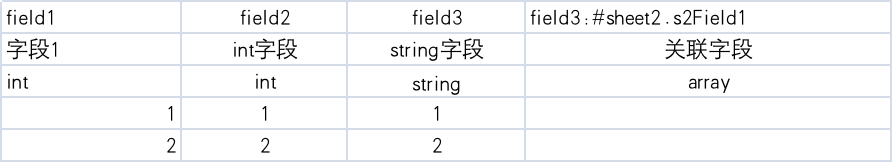
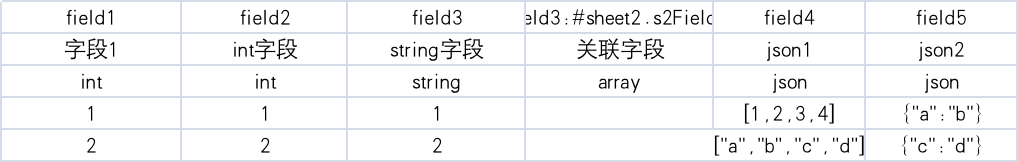
增加json字段支持

diff --git a/lib/book/book.go b/lib/book/book.go
@@ -2,6 +2,7 @@ package book
 
 import (
 	Config "awesomeProject/lib/config"
+	"encoding/json"
 	"fmt"
 	"github.com/iancoleman/orderedmap"
 	"github.com/tealeg/xlsx"
@@ -61,6 +62,26 @@ func createDataMap(data *PageData) *orderedmap.OrderedMap {
 				bodyMap.Set(head.enName, createDataMap(body.data.(*PageData)))
 			case "int", "string", "float":
 				bodyMap.Set(head.enName, body.data)
+			case "json":
+				if len(body.data.(string)) == 0 {
+					body.data = "{}"
+				}
+
+				if body.data.(string)[0] == '[' && body.data.(string)[len(body.data.(string))-1] == ']' {
+					var jsonArray []interface{}
+					err := json.Unmarshal([]byte(body.data.(string)), &jsonArray)
+					if err != nil {
+						panic(fmt.Sprintf("json解析失败,%s=>%s::%v\n", data.name, head.enName, err))
+					}
+					bodyMap.Set(head.enName, jsonArray)
+				} else {
+					jsonTempMap := orderedmap.New()
+					err := jsonTempMap.UnmarshalJSON([]byte(body.data.(string)))
+					if err != nil {
+						panic(fmt.Sprintf("json解析失败,%s=>%s::%v\n", data.name, head.enName, err))
+					}
+					bodyMap.Set(head.enName, jsonTempMap)
+				}
 			case "id":
 				s, err := strconv.Atoi(body.data.(string))
 				if err == nil {
@@ -149,6 +170,8 @@ func create(table map[string]*xlsx.Sheet, sheet *xlsx.Sheet, relationKey string,
 				fieldVal = ceilString
 			case "id":
 				fieldVal = ceilString
+			case "json":
+				fieldVal = ceilString
 			case "float":
 				temp, _ := strconv.ParseFloat(ceilString, 64)
 				fieldVal = temp
@@ -168,27 +191,21 @@ func create(table map[string]*xlsx.Sheet, sheet *xlsx.Sheet, relationKey string,
 
 func (b *Book) write(d []byte, s string) {
 	c := Config.GetConfig()
-	dir := c.OutPut + "/" + s + "/"
+	dir := c.OutPut + s + "/"
 	_, err := os.Stat(dir)
 	if err != nil {
 		// 如果目录不存在，则创建它
 		if os.IsNotExist(err) {
-			err := os.MkdirAll(dir, 0755)
-			if err != nil {
-				fmt.Printf("创建目录出错: %v\n", err)
-				return
+			err2 := os.MkdirAll(dir, 0755)
+			if err2 != nil {
+				panic(fmt.Sprintf("创建目录出错: %v\n", err2))
 			}
-			return
 		}
-		// 其他错误，如权限不足等
-		fmt.Printf("访问目录时出错: %v\n", err)
-		return
 	}
 	fileLink := dir + b.name + "." + s
 	file, err := os.Create(fileLink)
 	if err != nil {
-		fmt.Println("创建文件失败:", err)
-		return
+		panic(fmt.Sprintf("创建文件失败:%v\n", err))
 	}
 	defer func(file *os.File) {
 		err := file.Close()
@@ -199,7 +216,6 @@ func (b *Book) write(d []byte, s string) {
 	// 写入数据
 	_, err = file.Write(d)
 	if err != nil {
-		fmt.Println("写入文件失败:", err)
-		return
+		panic(fmt.Sprintf("写入文件失败:%v\n", err))
 	}
 }

diff --git a/lib/book/toPhp.go b/lib/book/toPhp.go
@@ -8,8 +8,6 @@ import (
 	"strings"
 )
 
-type id string
-
 func (b *Book) WriteToPhp() {
 	// 将Go map 转换为PHP数组的字符串形式
 	phpArray := goMapToPHPArray(b.dataMap)
@@ -47,6 +45,24 @@ func goValueToPHPValue(value interface{}) string {
 		return fmt.Sprintf("%v", v)
 	case *orderedmap.OrderedMap:
 		return goMapToPHPArray(v)
+	case []interface{}:
+		var builder strings.Builder
+		builder.WriteString("array(")
+		for _, item := range v {
+			s := fmt.Sprintf("%v", item)
+			if _, err := strconv.Atoi(s); err == nil {
+				builder.WriteString(s)
+				builder.WriteString(",")
+			} else {
+				builder.WriteString("\"")
+				builder.WriteString(s)
+				builder.WriteString("\"")
+				builder.WriteString(",")
+			}
+
+		}
+		builder.WriteString(")")
+		return builder.String()
 	default:
 		return "" // 不支持的类型，返回空字符串
 	}

diff --git a/lib/book/toJson.go b/lib/book/toJson.go
@@ -3,7 +3,6 @@ package book
 import (
 	"encoding/json"
 	"fmt"
-	"github.com/iancoleman/orderedmap"
 )
 
 func (b *Book) WriteToJson() {
@@ -11,8 +10,6 @@ func (b *Book) WriteToJson() {
 }
 
 func (b *Book) toJson() []byte {
-	o := orderedmap.New()
-	o.Set("a", 1.01)
 	jsonData, err := json.MarshalIndent(b.dataMap, "", "    ")
 	if err != nil {
 		fmt.Println("Error marshalling JSON:", err)

diff --git a/README.md b/README.md
@@ -5,12 +5,13 @@
 
 
 # 标识符:
+
+- id：特殊类型,设置索引key，若是整型字符串会转换成int，否则类型为string
 - string：字符串
-- int:整型
-- float:浮点数
+- int：整型
+- float：浮点数
 - array：关联,在第一列需要设置字段名:#子表名.关联的字表字段名
-- id 特殊类型,设置索引key，若是整型字符串会转换成int，否则类型为string
-- json 待实现
+- json：支持`[]`和`{}`结构
 
 
 
@@ -40,6 +41,15 @@ sheet2
                 "s2Field2": 2,
                 "s2Field3": "表1的field1关联的数据2"
             }
+        },
+        "field4": [
+            1,
+            2,
+            3,
+            4
+        ],
+        "field5": {
+            "a": "b"
         }
     },
     "2": {
@@ -56,12 +66,19 @@ sheet2
                 "s2Field2": 2,
                 "s2Field3": "表1的field1关联的数据4"
             }
+        },
+        "field4": [
+            "a",
+            "b",
+            "c",
+            "d"
+        ],
+        "field5": {
+            "c": "d"
         }
     }
 }
 ```
-
-
 
 
 # 开发计划:
